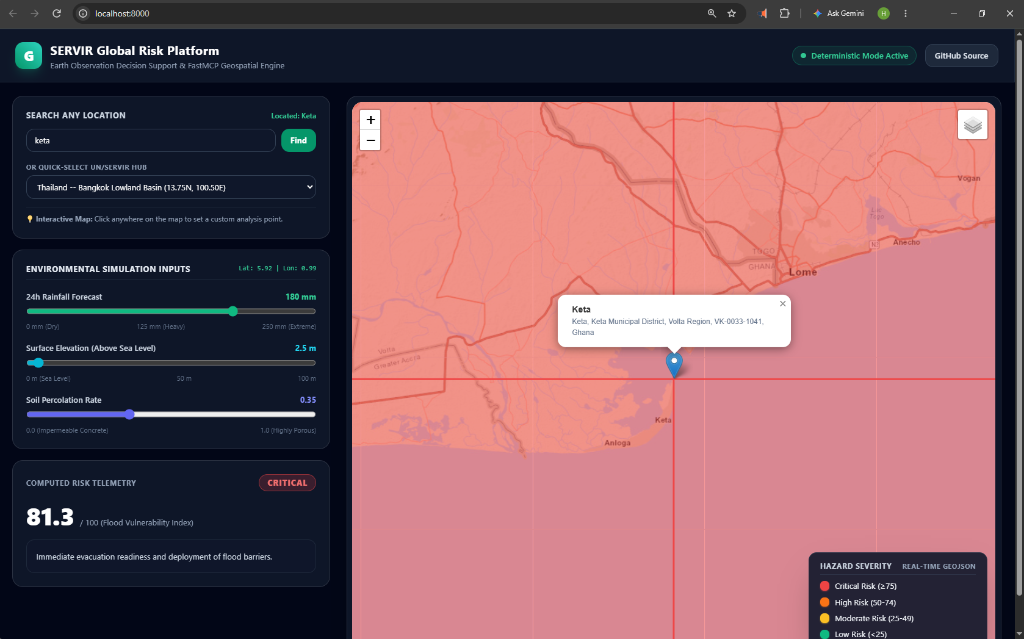
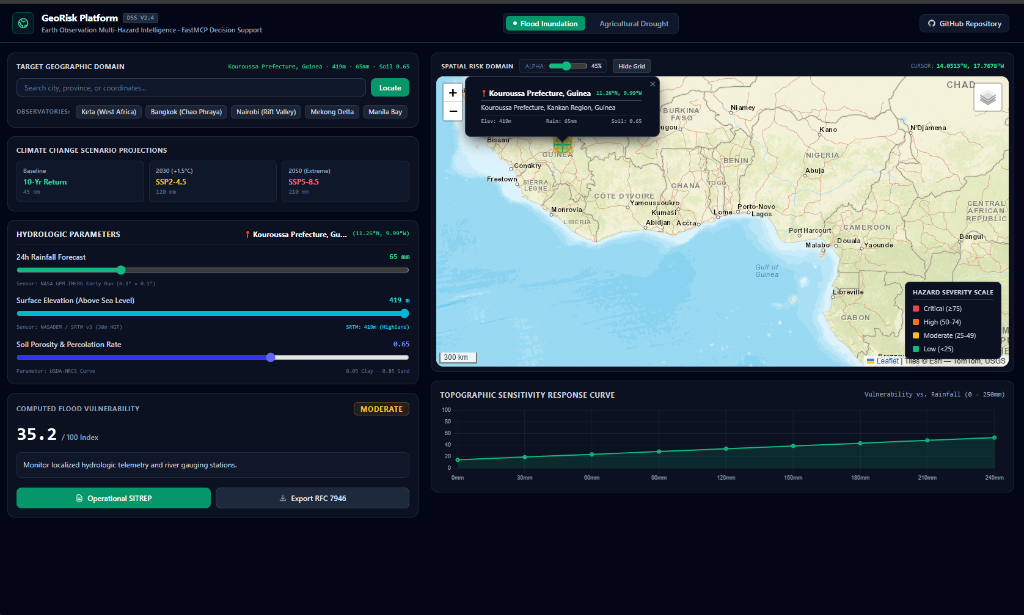
docs: update UI preview showcases with live flood inundation and agricultural drought DSS interfaces

diff --git a/README.md b/README.md
@@ -5,34 +5,52 @@
 [![Python](https://img.shields.io/badge/Python-3.11%20%7C%203.12%20%7C%203.13-blue.svg)](https://www.python.org/)
 [![License](https://img.shields.io/badge/License-MIT-purple.svg)](LICENSE)
 
-A production-grade Python **Model Context Protocol (MCP)** server and interactive decision-support platform providing deterministic geospatial analytics, flood vulnerability indexing, and RFC 7946 GeoJSON bounding-box hazard partitions for LLM agents, GIS analysts, and disaster response teams.
+A production-grade Python **Model Context Protocol (MCP)** server and interactive decision-support platform providing deterministic geospatial analytics, multi-hazard risk indexing (Flood Inundation & Agricultural Drought), and RFC 7946 GeoJSON bounding-box hazard partitions for LLM agents, GIS analysts, and disaster response teams.
 
-Engineered to support scientific, Earth-observation-grounded risk analytics adhering to the **Sendai Framework for Disaster Risk Reduction** and open geospatial decision-support standards.
+Engineered to support scientific, Earth-observation-grounded risk analytics adhering to the **UN Sendai Framework for Disaster Risk Reduction** and open geospatial decision-support standards.
 
 ---
 
-## Interactive Web Map Decision Platform
+## Interactive Decision Support Interfaces
 
-![GeoRisk Platform Interactive Decision Support System](assets/dashboard_preview.png)
-*Live interactive hazard simulation over Keta Lagoon (Volta Region, Ghana) showing real-time 81.3 Critical Flood Inundation and dynamic RFC 7946 GeoJSON polygon styling.*
+### 1. Flood Inundation Intelligence
+![GeoRisk Platform - Flood Inundation Intelligence](assets/dashboard_preview.png)
+*Live Flood Inundation DSS over Kouroussa Prefecture, Guinea: Real-time SRTM v3 30m terrain elevation detection (419m), NASA GPM IMERG 24h precipitation synchronization (65mm), USDA-NRCS soil porosity curve (0.65), precision GIS reticle with reverse-geocoded place names, and topographic sensitivity response curve.*
+
+### 2. Agricultural Drought Monitoring & Agro-Meteorology
+![GeoRisk Platform - Agricultural Drought DSS](assets/drought_dss_preview.png)
+*Live Agricultural Drought DSS over Karimama, Benin: NASA SMAP L4 topsoil moisture telemetry (6%), MODIS / VIIRS Terra-Aqua L3 thermal land surface temperature (30°C), Sentinel-2 MSI / MODIS NDVI vegetation health index (0.55), and dynamic agro-climatic sensitivity curve.*
 
 ---
 
 ## Key Architecture & Capabilities
 
-### 1. Strict Deterministic Scientific Engine
-- **Decoupled Analytics:** Quantitative hydrologic and topographic calculations run inside approved deterministic services. The LLM explains and guides, but never hallucinates mathematical risk indices.
-- **Physical Grounding:** Correlates surface elevation (meters above sea level), precipitation intensity (mm), and soil percolation coefficients.
+### 1. Multi-Hazard Operational Decision Engine
+- **Flood Inundation Engine:** Evaluates hydrodynamic vulnerability based on surface elevation (meters above sea level), 24-hour rainfall forecast (NASA GPM IMERG), and USDA-NRCS hydrologic soil porosity/percolation coefficients.
+- **Agricultural Drought Engine:** Synthesizes root-zone topsoil moisture (NASA SMAP L4), land surface skin temperature (MODIS/VIIRS L3 thermal), and 16-day NDVI vegetation health composites into actionable agricultural advisory indices.
+- **Climate Scenario Projections:** Provides contextual benchmarking across Baseline 10-Yr Return, 2030 (+1.5°C) SSP2-4.5, and 2050 Extreme SSP5-8.5 climate projections.
 
-### 2. RFC 7946 GeoJSON Standard & Spatial Partitioning
+### 2. Physical Telemetry Auto-Detection & Reverse-Geocoding
+- **One-Click Globe Sampling:** Clicking anywhere on the globe or selecting pre-configured observatories (Keta, Bangkok Chao Phraya, Nairobi Rift Valley, Mekong Delta, Manila Bay) queries high-resolution satellite APIs (Open-Meteo & SRTM).
+- **Simultaneous 3-Slider Synchronization:** Automatically populates terrain elevation, local precipitation, and soil moisture/porosity for the exact clicked coordinates.
+- **Human-Readable Place Names:** Reverse-geocodes raw lat/lon coordinates into administrative names in English (e.g., `Kouroussa Prefecture, Kankan Region, Guinea (11.26°N, 9.99°W)`) directly in the header and precision reticle popup.
+
+### 3. Dynamic Sensitivity Response Modeling
+- **Topographic Sensitivity Curves:** Dynamically models vulnerability trajectories across 0–240mm precipitation gradients to predict inundation tipping points.
+- **Agro-Climatic Sensitivity Curves:** Graphs drought severity curves against topsoil moisture variations (0–100%) for dry-season crop protection and irrigation planning.
+
+### 4. UN Sendai & OCHA-Aligned Operational SITREP Dispatch
+- **Bounded Scientific Briefings:** Generates structured emergency situation reports (SITREPs) with incident tracking IDs (e.g., `SITREP-FL-0813`), operational phase banners, and physical sensor telemetry chips.
+- **4-Sector Impact Matrices:** Evaluates specific vulnerabilities across Life Safety, Infrastructure/WASH, Transport Networks, and Agriculture/Food Security.
+- **Phased Operational Timelines:** Establishes action directives from immediate warning (T-0h) through peak operational response (T-24h) to post-impact assessment (T-72h).
+- **1-Click Export:** Copy formatted markdown dispatches directly to the clipboard or generate PDF-ready incident reports.
+
+### 5. RFC 7946 GeoJSON Standard & Spatial Partitioning
 - **Dynamic Bounding-Box Partitions:** Divides any target geographic area into analytical grid polygons with cell-specific elevation variance, computed risk scores, and centroid telemetry.
 - **One-Click GIS Export:** Export generated hazard layers directly to `.geojson` for seamless ingestion into **QGIS**, **ArcGIS**, or **Google Earth Engine**.
 
-### 3. Model Context Protocol (MCP) Native
+### 6. Model Context Protocol (MCP) Native
 - **FastMCP Protocol Integration:** Exposes standardized tool definitions, input schemas, and resource capabilities for Claude Desktop, Cursor, Antigravity, and autonomous agent loops.
-
-### 4. Containerized & CI/CD Automated
-- **GitHub Actions Pipeline:** Automated test suite execution and Docker container build verification on every commit.
 
 ---
 
@@ -58,7 +76,8 @@ geospatial-risk-mcp-server/
 |-- tests/
 |   +-- test_server.py     # Pytest suite verifying deterministic models & schemas
 |-- assets/
-|   +-- dashboard_preview.png  # Live simulation screenshot
+|   |-- dashboard_preview.png  # Live simulation screenshot (Flood Inundation)
+|   +-- drought_dss_preview.png # Live simulation screenshot (Agricultural Drought)
 |-- .github/
 |   +-- workflows/ci.yml   # GitHub Actions CI & Docker test automation
 |-- Dockerfile             # Multi-stage container with automated test verification
